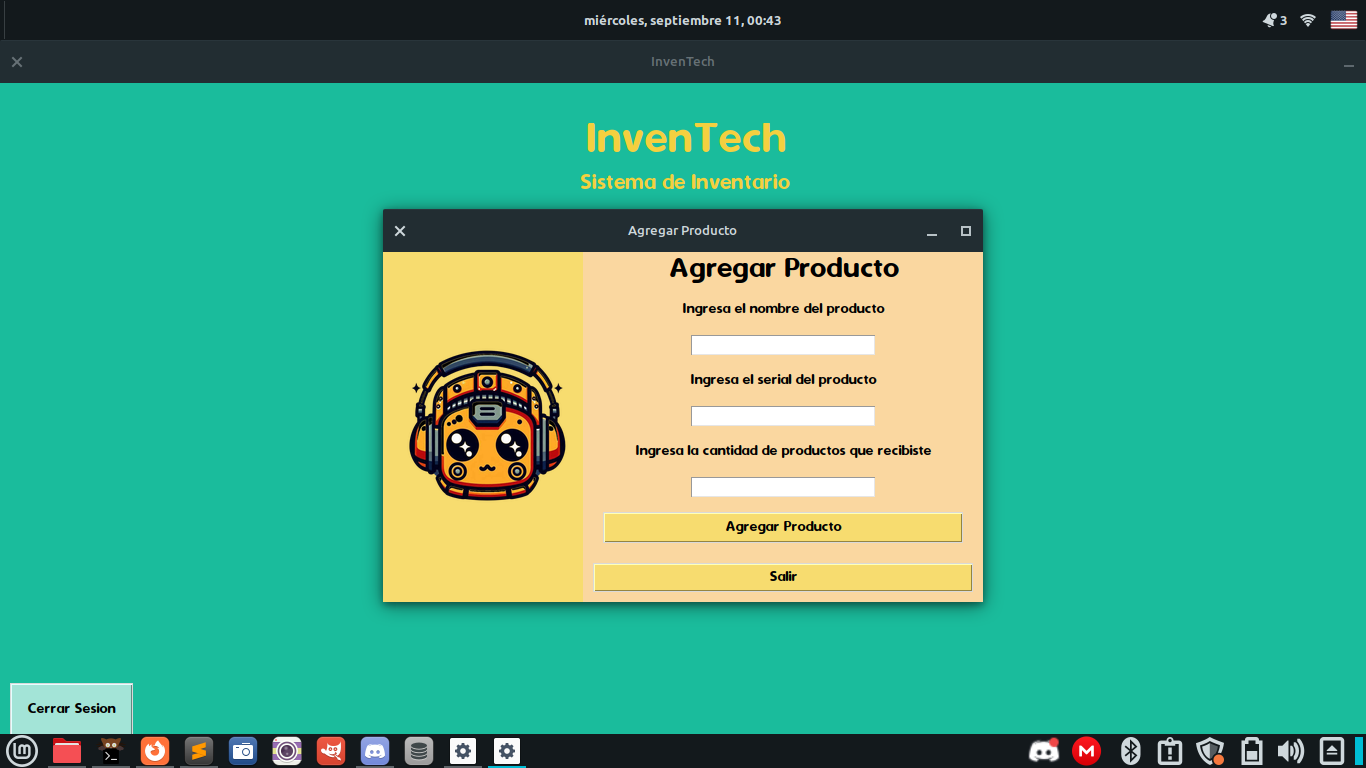
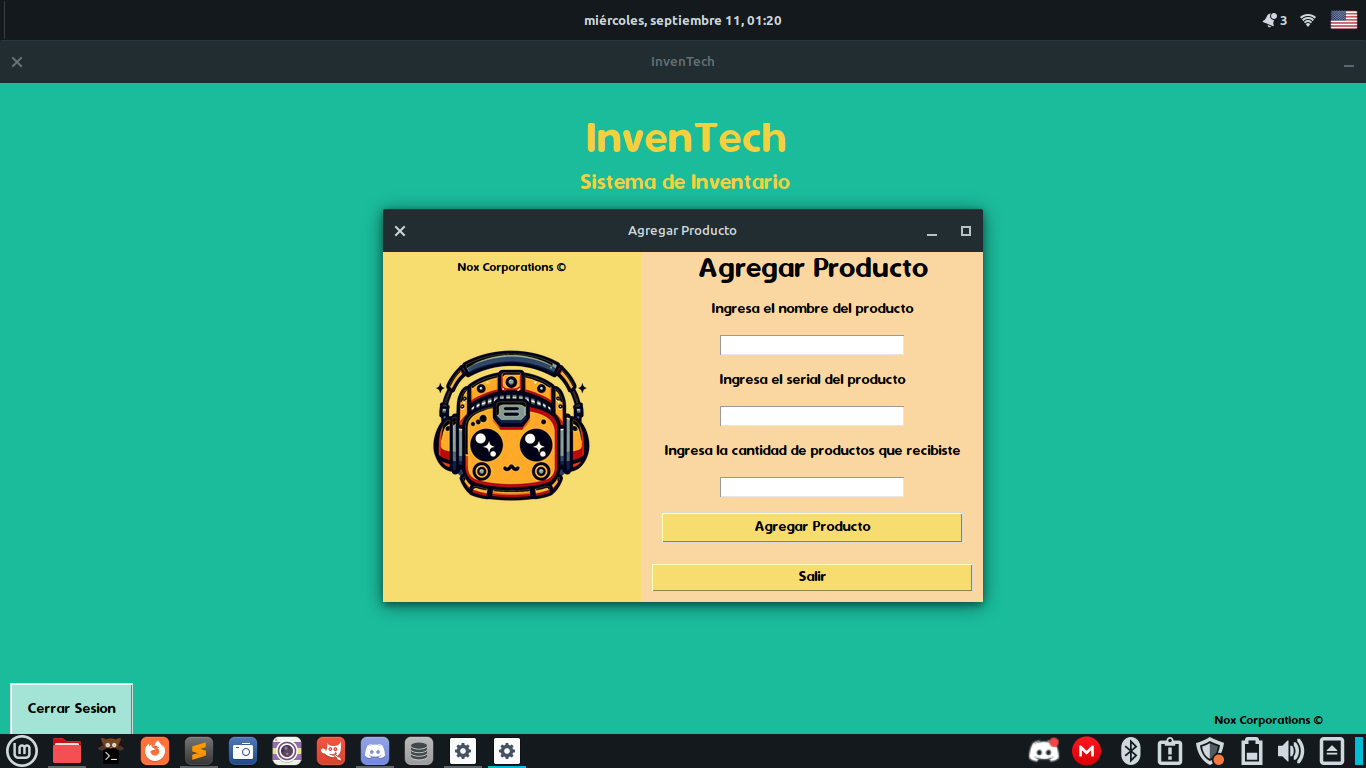
agregando copyright a las ventanas

diff --git a/scripts/agregar_producto/agregar_producto_designer.py b/scripts/agregar_producto/agregar_producto_designer.py
@@ -1,8 +1,8 @@
 import tkinter as tk
 from tkinter import *
 from tkinter import ttk
-from persistence.model import Inventary
-from persistence.repository.inventary_repository import InventaryRepository
+#from persistence.model import Inventary
+#from persistence.repository.inventary_repository import InventaryRepository
 import util.generic as util
 from tkinter import messagebox
 
@@ -19,8 +19,13 @@ class AgregarProductoDesigner:
 
 		frame_logo = tk.Frame(self.ventana,bd=0,width=200,relief=tk.SOLID,padx=5,pady=5,bg='#f7dc6f')
 		frame_logo.pack(side='left',expand=False,fill=tk.BOTH)
+
+		
 		label = tk.Label(frame_logo,image=logo,bg='#f7dc6f')
 		label.place(x=0,y=0,relwidth=1,relheight=1)
+
+		copyrigth = tk.Label(frame_logo,text='Nox Corporations ©',width=30,padx=3,pady=3,bg='#f7dc6f',font=('Dyuthi',10))
+		copyrigth.grid(column=0,row=0)
 
 		frame_top = tk.Frame(self.ventana,height=20,bd=0,relief=tk.SOLID,bg='#fad7a0')
 		frame_top.pack(side='top',expand=tk.YES,fill=tk.BOTH)

diff --git a/form/master/form_master.py b/form/master/form_master.py
@@ -28,6 +28,9 @@ class MasterPanel:
 		label1 = tk.Label(self.ventana,image=logo,bg='#1abc9c')
 		label1.place(x=0,y=0,relwidth=1,relheight=1)
 
+		copyrigth = tk.Label(self.ventana,text='Nox Corporations ©',width=40,padx=6,pady=6,bg='#1abc9c',font=('Dyuthi',10))
+		copyrigth.place(x=1200,y=600,relwidth=0.10,relheight=0.10)
+
 		label_title = tk.Label(self.ventana,text='InvenTech',bg='#1abc9c',font=('Dyuthi',36),fg='#f4d03f')
 		label_title.place(x=70,y=40,relwidth=0.9,relheight=0.05)
 		label_description = tk.Label(self.ventana,text='Sistema de Inventario',bg='#1abc9c',font=('Dyuthi',18),fg='#f4d03f')

diff --git a/persistence/model.py b/persistence/model.py
@@ -10,10 +10,3 @@ class Auth_user(Base):
 	username = Column(String(150))
 	password = Column(String(128))
 
-class Inventary():
-	__tablename__ = 'inventary'
-	id = Column(Integer,autoincrement=True)
-	product_Name = Column(String(150))
-	Serial = Column(String(150))
-	cantidad_Inventario = Column(Integer)
-	

diff --git a/persistence/repository/inventary_repository.py b/persistence/repository/inventary_repository.py
@@ -1,3 +1,4 @@
+'''
 import sqlalchemy as db
 from persistence.model import Inventary
 from sqlalchemy.orm import Session
@@ -21,3 +22,4 @@ class InventaryRepository():
 		with Session(self.engine) as session:
 			session.add(name,serial_id,cantidad_inventario_id)
 			session.commit()
+			'''

diff --git a/scripts/agregar_producto/agregar_producto.py b/scripts/agregar_producto/agregar_producto.py
@@ -1,7 +1,6 @@
 import tkinter as tk
 from tkinter import *
 from tkinter import ttk
-import math
 from scripts.agregar_producto.agregar_producto_designer import AgregarProductoDesigner
 
 class AgregarProductoCreate(AgregarProductoDesigner):
